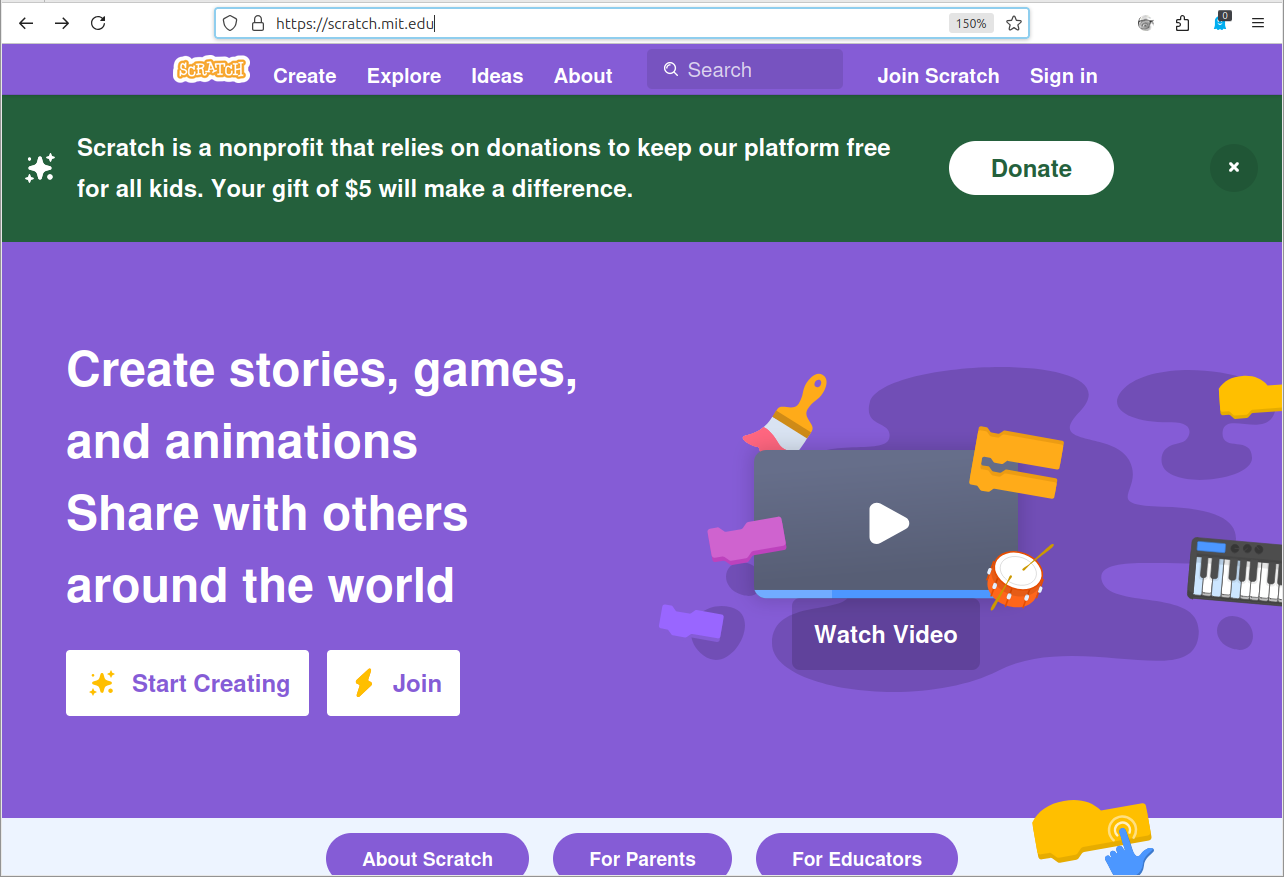
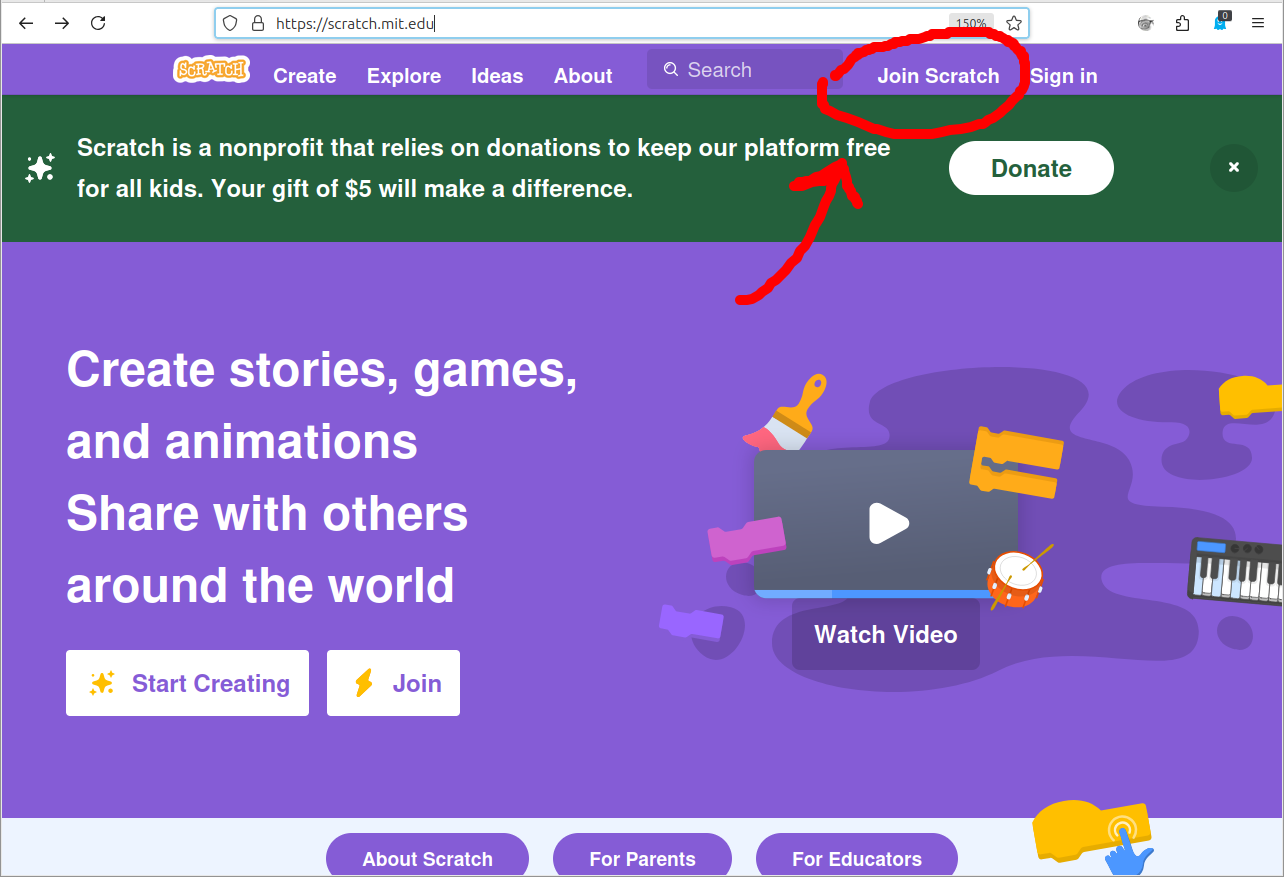
join

Changed region(s): [[0.6231, 0.0308, 0.81, 0.1847], [0.5919, 0.1847, 0.6854, 0.3387], [0.5607, 0.3387, 0.5919, 0.3694]]

diff --git a/Scratch.instructions.md b/Scratch.instructions.md
@@ -4,10 +4,11 @@
 
 ### A. Joining Scratch
 
-- Go to: 
 
+<script> function button(){ window.open("https://scratch.mit.edu/");} </script> 
+<button onclick="button()">Go to: SCRATCH</button>
 
-
+<img src="Firewalker/images/scratch.png/scratch.join.1.png" width="100%" />
 
 
 
